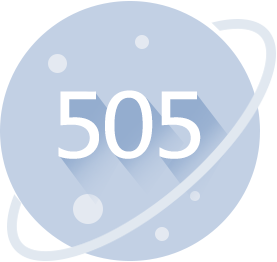
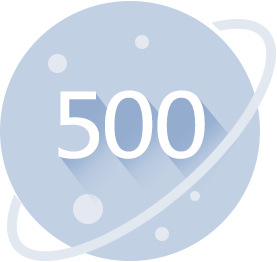
修改500错误图标

Changed region(s): [[0.5487, 0.3359, 0.7509, 0.6718]]

diff --git a/src/main/java/com/sinog2c/flow/controller/BaseController.java b/src/main/java/com/sinog2c/flow/controller/BaseController.java
@@ -62,73 +62,5 @@ public class BaseController {
 		}
 		return user;
 	}
-
-	/**
-	 * 分页排序查询列表
-	 * @param query
-	 * @param param
-	 * @return
-	 */
-	public List<Model> getModelList(ModelQuery query, Map<String, Object> param){
-		List<Model> list = null;
-		String sort = param.get("sort").toString();
-		String order = param.get("order").toString();
-		String search = param.get("search").toString();
-		if(!"".equals(search)) {
-			query = query.modelNameLike(search);
-		}
-		if("id".equals(sort.toLowerCase())) {
-			if("asc".equals(order)) {
-				query = query.orderByModelId().asc();
-			}else {
-				query = query.orderByModelId().desc();
-			}
-		}else if("key".equals(sort.toLowerCase())) {
-			if("asc".equals(order)) {
-				query = query.orderByModelKey().asc();
-			}else {
-				query = query.orderByModelKey().desc();
-			}
-		}else if("name".equals(sort.toLowerCase())) {
-			if("asc".equals(order)) {
-				query = query.orderByModelName().asc();
-			}else {
-				query = query.orderByModelName().desc();
-			}
-		}else if("revision".equals(sort.toLowerCase())) {
-			if("asc".equals(order)) {
-				query = query.orderByModelVersion().asc();
-			}else {
-				query = query.orderByModelVersion().desc();
-			}
-		}else if("category".equals(sort.toLowerCase())) {
-			if("asc".equals(order)) {
-				query = query.orderByModelCategory().asc();
-			}else {
-				query = query.orderByModelCategory().desc();
-			}
-		}else if("lastupdatetime".equals(sort.toLowerCase())) {
-			if("asc".equals(order)) {
-				query = query.orderByLastUpdateTime().asc();
-			}else {
-				query = query.orderByLastUpdateTime().desc();
-			}
-		}else if("tenantid".equals(sort.toLowerCase())) {
-			if("asc".equals(order)) {
-				query = query.orderByTenantId().asc();
-			}else {
-				query = query.orderByTenantId().desc();
-			}
-		}else{
-			if("asc".equals(order)) {
-				query = query.orderByCreateTime().asc();
-			}else {
-				query = query.orderByCreateTime().desc();
-			}
-		}
-		list = query.listPage(Integer.parseInt(param.get("offset").toString()), 
-				Integer.parseInt(param.get("limit").toString()));
-		return list;
-	}
 	
 }
